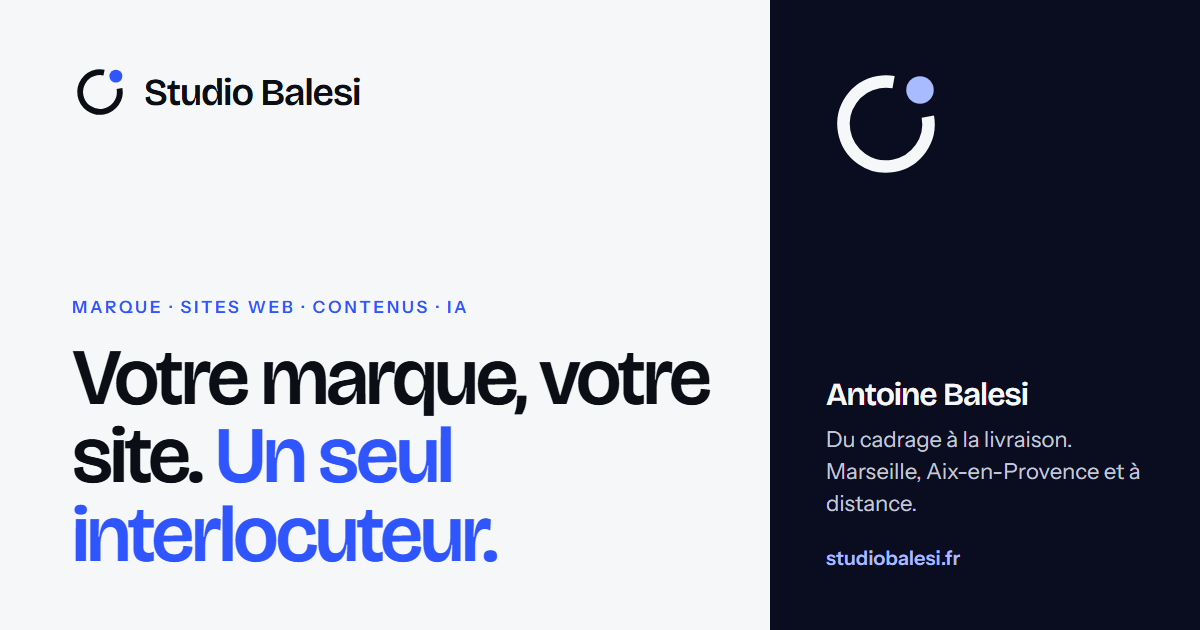
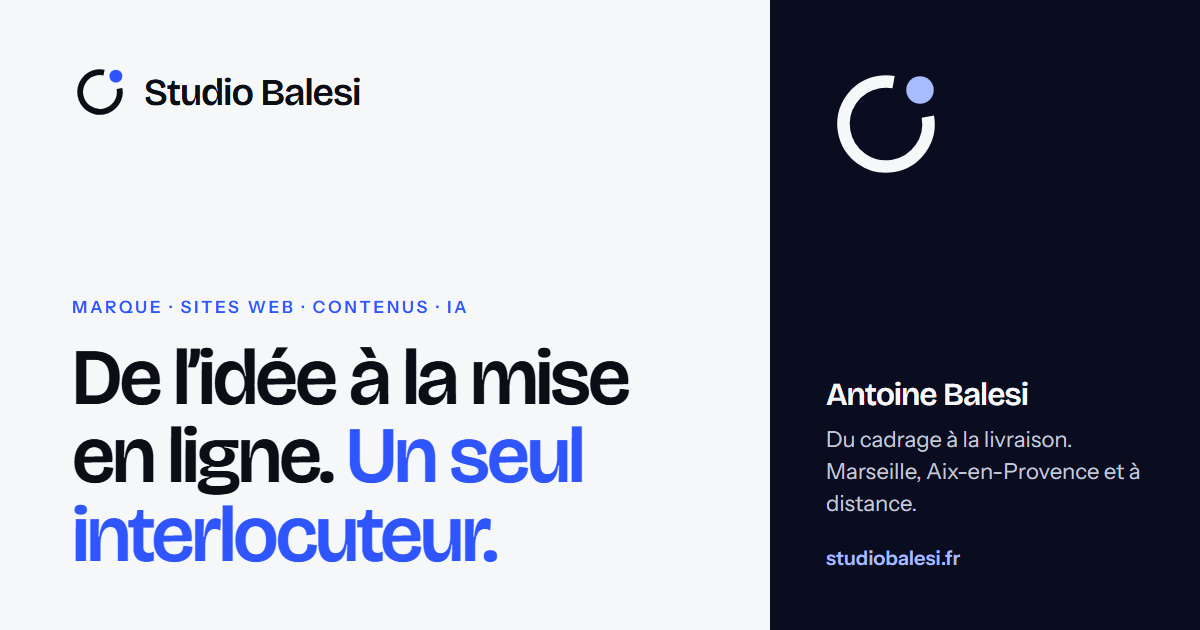
feat: nouvelle formule du heros et titre reduit

Changed region(s): [[0.0617, 0.5429, 0.6167, 0.7841]]

diff --git a/index.html b/index.html
@@ -14,7 +14,7 @@
   <meta property="og:image" content="https://studiobalesi.fr/assets/images/og-studio-balesi.png">
   <meta property="og:image:width" content="1200">
   <meta property="og:image:height" content="630">
-  <meta property="og:image:alt" content="Studio Balesi — Votre marque, votre site. Un seul interlocuteur.">
+  <meta property="og:image:alt" content="Studio Balesi — De l’idée à la mise en ligne. Un seul interlocuteur.">
   <meta property="og:locale" content="fr_FR">
   <meta property="og:site_name" content="Studio Balesi">
   <meta name="twitter:card" content="summary_large_image">
@@ -25,9 +25,9 @@
 
   <link rel="preload" href="assets/fonts/bricolage-grotesque-latin.woff2" as="font" type="font/woff2" crossorigin>
   <link rel="preload" href="assets/fonts/instrument-sans-latin.woff2" as="font" type="font/woff2" crossorigin>
-  <link rel="stylesheet" href="assets/css/design-system.css?v=20261120t">
-  <link rel="stylesheet" href="assets/css/components.css?v=20261120t">
-  <link rel="stylesheet" href="assets/css/pages/home.css?v=20261120t">
+  <link rel="stylesheet" href="assets/css/design-system.css?v=20261120u">
+  <link rel="stylesheet" href="assets/css/components.css?v=20261120u">
+  <link rel="stylesheet" href="assets/css/pages/home.css?v=20261120u">
 
   <script type="application/ld+json">
   {
@@ -110,10 +110,10 @@
     <div class="container home-hero__top">
       <span class="eyebrow">Marque · Sites web · Contenus · IA</span>
 
-      <h1>Votre marque, votre site. <span class="grad">Un seul interlocuteur.</span></h1>
+      <h1>De l’idée à la mise en ligne. <span class="grad">Un seul interlocuteur.</span></h1>
 
       <div class="home-hero__row">
-        <p class="home-hero__sub">Je suis Antoine Balesi. J’accompagne les professionnels du positionnement à la mise en ligne, avec des contenus et des automatisations adaptés à leur activité. Marseille, Aix-en-Provence et à distance.</p>
+        <p class="home-hero__sub">Vous m’expliquez votre activité une fois. Je m’occupe de la marque, du site, des contenus et des automatisations. À Marseille, Aix-en-Provence et à distance.</p>
 
         <div class="home-hero__actions">
           <a href="contact.html" class="btn btn--primary">
@@ -128,7 +128,7 @@
     <ul class="container home-hero__proofs">
       <li>
         <a class="hero-proof" href="projet-belavi.html">
-          <img src="assets/images/realisations/belavi-livret-mas.webp" alt="Livret d’exemple Belavi : le Mas des Oliviers" width="600" height="1200" fetchpriority="high">
+          <img class="hero-proof__img--belavi" src="assets/images/realisations/belavi-livret-mas.webp" alt="Livret d’exemple Belavi : le Mas des Oliviers" width="600" height="1200" fetchpriority="high">
           <span class="hero-proof__txt"><strong>Belavi</strong><span>Plateforme web · IA</span></span>
         </a>
       </li>
@@ -517,6 +517,6 @@
   </div>
 </footer>
 
-<script src="assets/js/main.js?v=20261120t" defer></script>
+<script src="assets/js/main.js?v=20261120u" defer></script>
 </body>
 </html>

diff --git a/contact.html b/contact.html
@@ -14,7 +14,7 @@
   <meta property="og:image" content="https://studiobalesi.fr/assets/images/og-studio-balesi.png">
   <meta property="og:image:width" content="1200">
   <meta property="og:image:height" content="630">
-  <meta property="og:image:alt" content="Studio Balesi — Votre marque, votre site. Un seul interlocuteur.">
+  <meta property="og:image:alt" content="Studio Balesi — De l’idée à la mise en ligne. Un seul interlocuteur.">
   <meta property="og:locale" content="fr_FR">
   <meta property="og:site_name" content="Studio Balesi">
   <meta name="twitter:card" content="summary_large_image">
@@ -25,9 +25,9 @@
 
   <link rel="preload" href="assets/fonts/bricolage-grotesque-latin.woff2" as="font" type="font/woff2" crossorigin>
   <link rel="preload" href="assets/fonts/instrument-sans-latin.woff2" as="font" type="font/woff2" crossorigin>
-  <link rel="stylesheet" href="assets/css/design-system.css?v=20261120t">
-  <link rel="stylesheet" href="assets/css/components.css?v=20261120t">
-  <link rel="stylesheet" href="assets/css/pages/inner.css?v=20261120t">
+  <link rel="stylesheet" href="assets/css/design-system.css?v=20261120u">
+  <link rel="stylesheet" href="assets/css/components.css?v=20261120u">
+  <link rel="stylesheet" href="assets/css/pages/inner.css?v=20261120u">
   <noscript><style>
     .header { position: relative; height: auto; background: var(--nuit); }
     .header__inner { flex-wrap: wrap; padding-block: 1rem; height: auto; }
@@ -285,7 +285,7 @@
   </div>
 </footer>
 
-<script src="assets/js/main.js?v=20261120t" defer></script>
-<script src="assets/js/contact.js?v=20261120t" defer></script>
+<script src="assets/js/main.js?v=20261120u" defer></script>
+<script src="assets/js/contact.js?v=20261120u" defer></script>
 </body>
 </html>

diff --git a/expertises.html b/expertises.html
@@ -14,7 +14,7 @@
   <meta property="og:image" content="https://studiobalesi.fr/assets/images/og-studio-balesi.png">
   <meta property="og:image:width" content="1200">
   <meta property="og:image:height" content="630">
-  <meta property="og:image:alt" content="Studio Balesi — Votre marque, votre site. Un seul interlocuteur.">
+  <meta property="og:image:alt" content="Studio Balesi — De l’idée à la mise en ligne. Un seul interlocuteur.">
   <meta property="og:locale" content="fr_FR">
   <meta property="og:site_name" content="Studio Balesi">
   <meta name="twitter:card" content="summary_large_image">
@@ -25,9 +25,9 @@
 
   <link rel="preload" href="assets/fonts/bricolage-grotesque-latin.woff2" as="font" type="font/woff2" crossorigin>
   <link rel="preload" href="assets/fonts/instrument-sans-latin.woff2" as="font" type="font/woff2" crossorigin>
-  <link rel="stylesheet" href="assets/css/design-system.css?v=20261120t">
-  <link rel="stylesheet" href="assets/css/components.css?v=20261120t">
-  <link rel="stylesheet" href="assets/css/pages/inner.css?v=20261120t">
+  <link rel="stylesheet" href="assets/css/design-system.css?v=20261120u">
+  <link rel="stylesheet" href="assets/css/components.css?v=20261120u">
+  <link rel="stylesheet" href="assets/css/pages/inner.css?v=20261120u">
   <noscript><style>
     .header { position: relative; height: auto; background: var(--nuit); }
     .header__inner { flex-wrap: wrap; padding-block: 1rem; height: auto; }
@@ -506,6 +506,6 @@
   </div>
 </footer>
 
-<script src="assets/js/main.js?v=20261120t" defer></script>
+<script src="assets/js/main.js?v=20261120u" defer></script>
 </body>
 </html>

diff --git a/mentions-legales.html b/mentions-legales.html
@@ -10,7 +10,7 @@
   <meta property="og:image" content="https://studiobalesi.fr/assets/images/og-studio-balesi.png">
   <meta property="og:image:width" content="1200">
   <meta property="og:image:height" content="630">
-  <meta property="og:image:alt" content="Studio Balesi — Votre marque, votre site. Un seul interlocuteur.">
+  <meta property="og:image:alt" content="Studio Balesi — De l’idée à la mise en ligne. Un seul interlocuteur.">
   <meta property="og:locale" content="fr_FR">
   <meta property="og:site_name" content="Studio Balesi">
   <meta name="twitter:card" content="summary_large_image">
@@ -20,9 +20,9 @@
 
   <link rel="preload" href="assets/fonts/bricolage-grotesque-latin.woff2" as="font" type="font/woff2" crossorigin>
   <link rel="preload" href="assets/fonts/instrument-sans-latin.woff2" as="font" type="font/woff2" crossorigin>
-  <link rel="stylesheet" href="assets/css/design-system.css?v=20261120t">
-  <link rel="stylesheet" href="assets/css/components.css?v=20261120t">
-  <link rel="stylesheet" href="assets/css/pages/inner.css?v=20261120t">
+  <link rel="stylesheet" href="assets/css/design-system.css?v=20261120u">
+  <link rel="stylesheet" href="assets/css/components.css?v=20261120u">
+  <link rel="stylesheet" href="assets/css/pages/inner.css?v=20261120u">
   <noscript><style>
     .header { position: relative; height: auto; background: var(--nuit); }
     .header__inner { flex-wrap: wrap; padding-block: 1rem; height: auto; }
@@ -216,6 +216,6 @@
   </div>
 </footer>
 
-<script src="assets/js/main.js?v=20261120t" defer></script>
+<script src="assets/js/main.js?v=20261120u" defer></script>
 </body>
 </html>

diff --git a/presentation.html b/presentation.html
@@ -14,7 +14,7 @@
   <meta property="og:image" content="https://studiobalesi.fr/assets/images/og-studio-balesi.png">
   <meta property="og:image:width" content="1200">
   <meta property="og:image:height" content="630">
-  <meta property="og:image:alt" content="Studio Balesi — Votre marque, votre site. Un seul interlocuteur.">
+  <meta property="og:image:alt" content="Studio Balesi — De l’idée à la mise en ligne. Un seul interlocuteur.">
   <meta property="og:locale" content="fr_FR">
   <meta property="og:site_name" content="Studio Balesi">
   <meta name="twitter:card" content="summary_large_image">
@@ -25,9 +25,9 @@
 
   <link rel="preload" href="assets/fonts/bricolage-grotesque-latin.woff2" as="font" type="font/woff2" crossorigin>
   <link rel="preload" href="assets/fonts/instrument-sans-latin.woff2" as="font" type="font/woff2" crossorigin>
-  <link rel="stylesheet" href="assets/css/design-system.css?v=20261120t">
-  <link rel="stylesheet" href="assets/css/components.css?v=20261120t">
-  <link rel="stylesheet" href="assets/css/pages/inner.css?v=20261120t">
+  <link rel="stylesheet" href="assets/css/design-system.css?v=20261120u">
+  <link rel="stylesheet" href="assets/css/components.css?v=20261120u">
+  <link rel="stylesheet" href="assets/css/pages/inner.css?v=20261120u">
   <noscript><style>
     .header { position: relative; height: auto; background: var(--nuit); }
     .header__inner { flex-wrap: wrap; padding-block: 1rem; height: auto; }
@@ -346,6 +346,6 @@
   </div>
 </footer>
 
-<script src="assets/js/main.js?v=20261120t" defer></script>
+<script src="assets/js/main.js?v=20261120u" defer></script>
 </body>
 </html>

diff --git a/projet-belavi.html b/projet-belavi.html
@@ -14,7 +14,7 @@
   <meta property="og:image" content="https://studiobalesi.fr/assets/images/og-studio-balesi.png">
   <meta property="og:image:width" content="1200">
   <meta property="og:image:height" content="630">
-  <meta property="og:image:alt" content="Studio Balesi — Votre marque, votre site. Un seul interlocuteur.">
+  <meta property="og:image:alt" content="Studio Balesi — De l’idée à la mise en ligne. Un seul interlocuteur.">
   <meta property="og:locale" content="fr_FR">
   <meta property="og:site_name" content="Studio Balesi">
   <meta name="twitter:card" content="summary_large_image">
@@ -25,9 +25,9 @@
 
   <link rel="preload" href="assets/fonts/bricolage-grotesque-latin.woff2" as="font" type="font/woff2" crossorigin>
   <link rel="preload" href="assets/fonts/instrument-sans-latin.woff2" as="font" type="font/woff2" crossorigin>
-  <link rel="stylesheet" href="assets/css/design-system.css?v=20261120t">
-  <link rel="stylesheet" href="assets/css/components.css?v=20261120t">
-  <link rel="stylesheet" href="assets/css/pages/inner.css?v=20261120t">
+  <link rel="stylesheet" href="assets/css/design-system.css?v=20261120u">
+  <link rel="stylesheet" href="assets/css/components.css?v=20261120u">
+  <link rel="stylesheet" href="assets/css/pages/inner.css?v=20261120u">
   <noscript><style>
     .header { position: relative; height: auto; background: var(--nuit); }
     .header__inner { flex-wrap: wrap; padding-block: 1rem; height: auto; }
@@ -157,6 +157,6 @@
   </div>
 </footer>
 
-<script src="assets/js/main.js?v=20261120t" defer></script>
+<script src="assets/js/main.js?v=20261120u" defer></script>
 </body>
 </html>

diff --git a/realisations.html b/realisations.html
@@ -14,7 +14,7 @@
   <meta property="og:image" content="https://studiobalesi.fr/assets/images/og-studio-balesi.png">
   <meta property="og:image:width" content="1200">
   <meta property="og:image:height" content="630">
-  <meta property="og:image:alt" content="Studio Balesi — Votre marque, votre site. Un seul interlocuteur.">
+  <meta property="og:image:alt" content="Studio Balesi — De l’idée à la mise en ligne. Un seul interlocuteur.">
   <meta property="og:locale" content="fr_FR">
   <meta property="og:site_name" content="Studio Balesi">
   <meta name="twitter:card" content="summary_large_image">
@@ -25,9 +25,9 @@
 
   <link rel="preload" href="assets/fonts/bricolage-grotesque-latin.woff2" as="font" type="font/woff2" crossorigin>
   <link rel="preload" href="assets/fonts/instrument-sans-latin.woff2" as="font" type="font/woff2" crossorigin>
-  <link rel="stylesheet" href="assets/css/design-system.css?v=20261120t">
-  <link rel="stylesheet" href="assets/css/components.css?v=20261120t">
-  <link rel="stylesheet" href="assets/css/pages/inner.css?v=20261120t">
+  <link rel="stylesheet" href="assets/css/design-system.css?v=20261120u">
+  <link rel="stylesheet" href="assets/css/components.css?v=20261120u">
+  <link rel="stylesheet" href="assets/css/pages/inner.css?v=20261120u">
   <noscript><style>
     .header { position: relative; height: auto; background: var(--nuit); }
     .header__inner { flex-wrap: wrap; padding-block: 1rem; height: auto; }
@@ -453,6 +453,6 @@
   </div>
 </footer>
 
-<script src="assets/js/main.js?v=20261120t" defer></script>
+<script src="assets/js/main.js?v=20261120u" defer></script>
 </body>
 </html>

diff --git a/assets/css/pages/home.css b/assets/css/pages/home.css
@@ -11,11 +11,11 @@
   padding-top: var(--header-h);
   background: var(--givre);
 }
-.home-hero__top { padding-top: clamp(2.25rem, 5vh, 3rem); }
+.home-hero__top { padding-top: clamp(2rem, 5vh, 3rem); }
 .home-hero .eyebrow { margin-bottom: 1.25rem; }
 .home-hero h1 {
-  font-size: clamp(2.125rem, 5vw + 0.6rem, 5.5rem);
-  margin-bottom: clamp(1.5rem, 3vw, 2.25rem);
+  font-size: clamp(2.125rem, 4vw + 0.5rem, 4.5rem);
+  margin-bottom: clamp(1.25rem, 2.4vw, 1.75rem);
 }
 /* La seconde phrase passe toujours à la ligne, d'un seul bloc… */
 .home-hero h1 .grad { display: block; }
@@ -48,7 +48,7 @@
   grid-template-columns: repeat(3, 1fr);
   gap: 1.25rem;
   list-style: none;
-  padding-block: clamp(2rem, 4vw, 3rem) clamp(2.5rem, 5vw, 4rem);
+  padding-block: clamp(1.5rem, 2.4vw, 2rem) clamp(2.5rem, 5vw, 4rem);
 }
 .hero-proof { display: block; color: inherit; }
 .hero-proof img {
@@ -68,6 +68,12 @@
 .home-hero__proofs li:nth-child(3) img { animation-delay: 0.3s; }
 @keyframes proof-rise { from { transform: translateY(24px); } }
 .hero-proof__img--frega { object-position: 50% 24% !important; }
+.hero-proof__img--belavi { object-position: 50% 12% !important; }
+/* Ordinateur : la hauteur des images suit celle de la fenêtre, pour que
+   les trois projets et leurs noms tiennent dans le premier écran */
+@media (min-width: 801px) {
+  .hero-proof img { aspect-ratio: auto; height: clamp(180px, 28vh, 310px); }
+}
 .hero-proof:hover img { transform: translateY(-4px); }
 .hero-proof__txt { display: block; padding-top: 0.75rem; }
 .hero-proof__txt strong {

diff --git a/404.html b/404.html
@@ -12,9 +12,9 @@
 
   <link rel="preload" href="/assets/fonts/bricolage-grotesque-latin.woff2" as="font" type="font/woff2" crossorigin>
   <link rel="preload" href="/assets/fonts/instrument-sans-latin.woff2" as="font" type="font/woff2" crossorigin>
-  <link rel="stylesheet" href="/assets/css/design-system.css?v=20261120t">
-  <link rel="stylesheet" href="/assets/css/components.css?v=20261120t">
-  <link rel="stylesheet" href="/assets/css/pages/inner.css?v=20261120t">
+  <link rel="stylesheet" href="/assets/css/design-system.css?v=20261120u">
+  <link rel="stylesheet" href="/assets/css/components.css?v=20261120u">
+  <link rel="stylesheet" href="/assets/css/pages/inner.css?v=20261120u">
 
   <!-- Chemins absolus en / : la 404 s'affiche à n'importe quelle
        adresse du site, puisque studiobalesi.fr sert le site à la racine. -->
